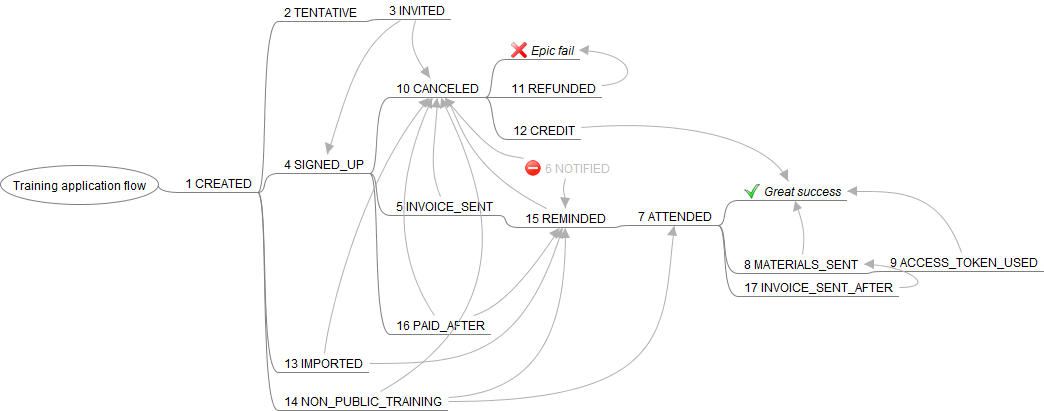
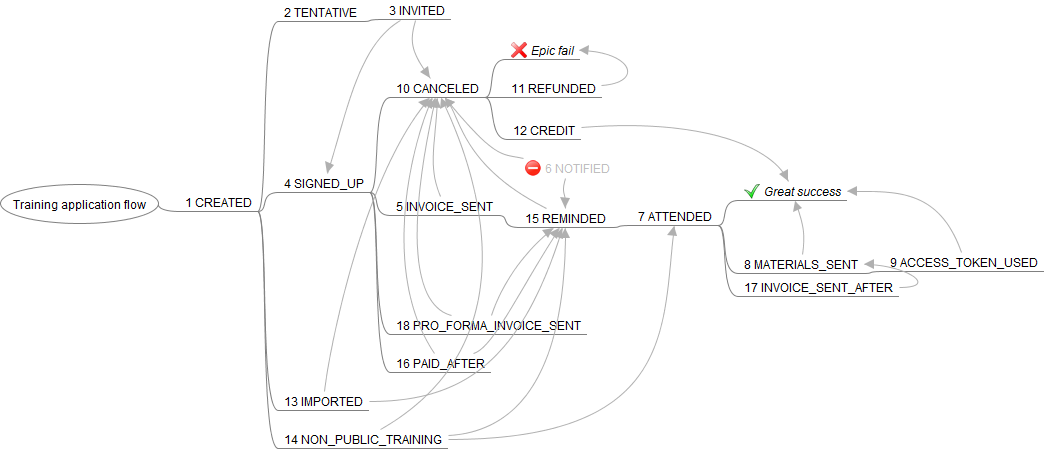
Now it's possible to send pro forma invoice too, manually only

diff --git a/docs/training_application_flow.mm b/docs/training_application_flow.mm
@@ -11,14 +11,15 @@
 </node>
 <node CREATED="1355610796532" ID="ID_1756582487" MODIFIED="1355617410792" TEXT="4 SIGNED_UP" VGAP="18">
 <linktarget COLOR="#b0b0b0" DESTINATION="ID_1756582487" ENDARROW="Default" ENDINCLINATION="19;-59;" ID="Arrow_ID_1716710395" SOURCE="ID_1511763687" STARTARROW="None" STARTINCLINATION="-43;25;"/>
-<node CREATED="1355610850487" ID="ID_1175474475" MODIFIED="1466902179453" TEXT="10 CANCELED" VGAP="18">
+<node CREATED="1355610850487" ID="ID_1175474475" MODIFIED="1488987652168" TEXT="10 CANCELED" VGAP="18">
 <linktarget COLOR="#b0b0b0" DESTINATION="ID_1175474475" ENDARROW="Default" ENDINCLINATION="-20;-27;" ID="Arrow_ID_1203943816" SOURCE="ID_1511763687" STARTARROW="None" STARTINCLINATION="-6;21;"/>
 <linktarget COLOR="#b0b0b0" DESTINATION="ID_1175474475" ENDARROW="Default" ENDINCLINATION="-2;47;" ID="Arrow_ID_1408376146" SOURCE="ID_1032920025" STARTARROW="None" STARTINCLINATION="-13;-31;"/>
+<linktarget COLOR="#b0b0b0" DESTINATION="ID_1175474475" ENDARROW="Default" ENDINCLINATION="51;62;" ID="Arrow_ID_1310256158" SOURCE="ID_1075044975" STARTARROW="None" STARTINCLINATION="-22;-5;"/>
+<linktarget COLOR="#b0b0b0" DESTINATION="ID_1175474475" ENDARROW="Default" ENDINCLINATION="16;18;" ID="Arrow_ID_258465881" SOURCE="ID_613030399" STARTARROW="None" STARTINCLINATION="-87;-44;"/>
 <linktarget COLOR="#b0b0b0" DESTINATION="ID_1175474475" ENDARROW="Default" ENDINCLINATION="-18;36;" ID="Arrow_ID_1282435526" SOURCE="ID_907559329" STARTARROW="None" STARTINCLINATION="-57;-84;"/>
 <linktarget COLOR="#b0b0b0" DESTINATION="ID_1175474475" ENDARROW="Default" ENDINCLINATION="-67;77;" ID="Arrow_ID_575919759" SOURCE="ID_841067494" STARTARROW="None" STARTINCLINATION="4;-38;"/>
 <linktarget COLOR="#b0b0b0" DESTINATION="ID_1175474475" ENDARROW="Default" ENDINCLINATION="37;76;" ID="Arrow_ID_359661777" SOURCE="ID_894633253" STARTARROW="None" STARTINCLINATION="153;-87;"/>
-<linktarget COLOR="#b0b0b0" DESTINATION="ID_1175474475" ENDARROW="Default" ENDINCLINATION="51;62;" ID="Arrow_ID_1310256158" SOURCE="ID_1075044975" STARTARROW="None" STARTINCLINATION="-22;-5;"/>
-<linktarget COLOR="#b0b0b0" DESTINATION="ID_1175474475" ENDARROW="Default" ENDINCLINATION="16;18;" ID="Arrow_ID_258465881" SOURCE="ID_613030399" STARTARROW="None" STARTINCLINATION="-87;-44;"/>
+<linktarget COLOR="#b0b0b0" DESTINATION="ID_1175474475" ENDARROW="Default" ENDINCLINATION="-5;25;" ID="Arrow_ID_374049343" SOURCE="ID_1470907850" STARTARROW="None" STARTINCLINATION="-63;-17;"/>
 <node CREATED="1355612401716" ID="ID_438026523" MODIFIED="1355617431736" TEXT="Epic fail">
 <linktarget COLOR="#b0b0b0" DESTINATION="ID_438026523" ENDARROW="Default" ENDINCLINATION="53;1;" ID="Arrow_ID_1067521810" SOURCE="ID_1457836313" STARTARROW="None" STARTINCLINATION="43;-3;"/>
 <font ITALIC="true" NAME="SansSerif" SIZE="12"/>
@@ -39,12 +40,13 @@
 <arrowlink DESTINATION="ID_613030399" ENDARROW="Default" ENDINCLINATION="1;-17;" ID="Arrow_ID_1391355262" STARTARROW="None" STARTINCLINATION="-5;17;"/>
 <icon BUILTIN="closed"/>
 </node>
-<node CREATED="1415815238185" ID="ID_613030399" MODIFIED="1466902106428" TEXT="15 REMINDED">
+<node CREATED="1415815238185" ID="ID_613030399" MODIFIED="1488987733841" TEXT="15 REMINDED">
 <arrowlink DESTINATION="ID_1175474475" ENDARROW="Default" ENDINCLINATION="16;18;" ID="Arrow_ID_258465881" STARTARROW="None" STARTINCLINATION="-87;-44;"/>
+<linktarget COLOR="#b0b0b0" DESTINATION="ID_613030399" ENDARROW="Default" ENDINCLINATION="1;-17;" ID="Arrow_ID_1391355262" SOURCE="ID_1075044975" STARTARROW="None" STARTINCLINATION="-5;17;"/>
+<linktarget COLOR="#b0b0b0" DESTINATION="ID_613030399" ENDARROW="Default" ENDINCLINATION="-41;63;" ID="Arrow_ID_766532629" SOURCE="ID_907559329" STARTARROW="None" STARTINCLINATION="20;-6;"/>
 <linktarget COLOR="#b0b0b0" DESTINATION="ID_613030399" ENDARROW="Default" ENDINCLINATION="-41;131;" ID="Arrow_ID_853160798" SOURCE="ID_841067494" STARTARROW="None" STARTINCLINATION="96;0;"/>
 <linktarget COLOR="#b0b0b0" DESTINATION="ID_613030399" ENDARROW="Default" ENDINCLINATION="0;82;" ID="Arrow_ID_96225950" SOURCE="ID_894633253" STARTARROW="None" STARTINCLINATION="103;-6;"/>
-<linktarget COLOR="#b0b0b0" DESTINATION="ID_613030399" ENDARROW="Default" ENDINCLINATION="-41;63;" ID="Arrow_ID_766532629" SOURCE="ID_907559329" STARTARROW="None" STARTINCLINATION="20;-6;"/>
-<linktarget COLOR="#b0b0b0" DESTINATION="ID_613030399" ENDARROW="Default" ENDINCLINATION="1;-17;" ID="Arrow_ID_1391355262" SOURCE="ID_1075044975" STARTARROW="None" STARTINCLINATION="-5;17;"/>
+<linktarget COLOR="#b0b0b0" DESTINATION="ID_613030399" ENDARROW="Default" ENDINCLINATION="-36;28;" ID="Arrow_ID_1506933628" SOURCE="ID_1470907850" STARTARROW="None" STARTINCLINATION="7;-22;"/>
 <node CREATED="1355610836241" ID="ID_1743884845" MODIFIED="1456301820197" TEXT="7 ATTENDED">
 <linktarget COLOR="#b0b0b0" DESTINATION="ID_1743884845" ENDARROW="Default" ENDINCLINATION="-13;95;" ID="Arrow_ID_788685321" SOURCE="ID_894633253" STARTARROW="None" STARTINCLINATION="232;0;"/>
 <node CREATED="1355611320041" ID="ID_869199593" MODIFIED="1355617435824" TEXT="Great success">
@@ -67,7 +69,11 @@
 </node>
 </node>
 </node>
-<node CREATED="1456301769153" ID="ID_907559329" MODIFIED="1466900969369" TEXT="16 PAID_AFTER">
+<node CREATED="1488987584548" ID="ID_1470907850" MODIFIED="1488987733841" TEXT="18 PRO_FORMA_INVOICE_SENT">
+<arrowlink DESTINATION="ID_1175474475" ENDARROW="Default" ENDINCLINATION="-5;25;" ID="Arrow_ID_374049343" STARTARROW="None" STARTINCLINATION="-63;-17;"/>
+<arrowlink DESTINATION="ID_613030399" ENDARROW="Default" ENDINCLINATION="-36;28;" ID="Arrow_ID_1506933628" STARTARROW="None" STARTINCLINATION="7;-22;"/>
+</node>
+<node CREATED="1456301769153" ID="ID_907559329" MODIFIED="1488987729160" TEXT="16 PAID_AFTER">
 <arrowlink DESTINATION="ID_1175474475" ENDARROW="Default" ENDINCLINATION="-18;36;" ID="Arrow_ID_1282435526" STARTARROW="None" STARTINCLINATION="-57;-84;"/>
 <arrowlink DESTINATION="ID_613030399" ENDARROW="Default" ENDINCLINATION="-41;63;" ID="Arrow_ID_766532629" STARTARROW="None" STARTINCLINATION="20;-6;"/>
 </node>

diff --git a/site/app/models/Training/Mails.php b/site/app/models/Training/Mails.php
@@ -106,7 +106,7 @@ class Mails
 
 		foreach ($this->trainingStatuses->getParentStatuses(Statuses::STATUS_MATERIALS_SENT) as $status) {
 			foreach ($this->trainingApplications->getByStatus($status) as $application) {
-				if ($status !== Statuses::STATUS_ATTENDED || ($status === Statuses::STATUS_ATTENDED && !$this->trainingStatuses->historyContainsStatus(Statuses::STATUS_PAID_AFTER, $application->id))) {
+				if ($status !== Statuses::STATUS_ATTENDED || ($status === Statuses::STATUS_ATTENDED && !$this->trainingStatuses->historyContainsStatuses([Statuses::STATUS_PAID_AFTER, Statuses::STATUS_PRO_FORMA_INVOICE_SENT], $application->id))) {
 					$application->files = $this->trainingFiles->getFiles($application->id);
 					$application->nextStatus = Statuses::STATUS_MATERIALS_SENT;
 					$applications[$application->id] = $application;
@@ -123,7 +123,7 @@ class Mails
 
 		foreach ($this->trainingStatuses->getParentStatuses(Statuses::STATUS_INVOICE_SENT_AFTER) as $status) {
 			foreach ($this->trainingApplications->getByStatus($status) as $application) {
-				if ($status !== Statuses::STATUS_ATTENDED || ($status === Statuses::STATUS_ATTENDED && $this->trainingStatuses->historyContainsStatus(Statuses::STATUS_PAID_AFTER, $application->id))) {
+				if ($status !== Statuses::STATUS_ATTENDED || ($status === Statuses::STATUS_ATTENDED && $this->trainingStatuses->historyContainsStatuses([Statuses::STATUS_PAID_AFTER, Statuses::STATUS_PRO_FORMA_INVOICE_SENT], $application->id))) {
 					$application->nextStatus = Statuses::STATUS_INVOICE_SENT_AFTER;
 					$applications[$application->id] = $application;
 				}

diff --git a/site/app/models/Training/Statuses.php b/site/app/models/Training/Statuses.php
@@ -25,6 +25,7 @@ class Statuses
 	const STATUS_REMINDED            = 'REMINDED';             // 15
 	const STATUS_PAID_AFTER          = 'PAID_AFTER';           // 16
 	const STATUS_INVOICE_SENT_AFTER  = 'INVOICE_SENT_AFTER';   // 17
+	const STATUS_PRO_FORMA_INVOICE_SENT = 'PRO_FORMA_INVOICE_SENT'; // 18
 
 	/** @var \Nette\Database\Context */
 	protected $database;
@@ -119,7 +120,7 @@ class Statuses
 	{
 		$children = $this->getChildrenStatuses($parent);
 		if ($parent === self::STATUS_ATTENDED) {
-			$status = ($this->historyContainsStatus(self::STATUS_PAID_AFTER, $applicationId) ? self::STATUS_MATERIALS_SENT : self::STATUS_INVOICE_SENT_AFTER);
+			$status = ($this->historyContainsStatuses([self::STATUS_PAID_AFTER, self::STATUS_PRO_FORMA_INVOICE_SENT], $applicationId) ? self::STATUS_MATERIALS_SENT : self::STATUS_INVOICE_SENT_AFTER);
 			unset($children[$this->getStatusId($status)]);
 		}
 		return $children;
@@ -249,11 +250,11 @@ class Statuses
 	}
 
 
-	public function historyContainsStatus($status, $applicationId)
+	public function historyContainsStatuses(array $statuses, $applicationId)
 	{
 		$result = false;
 		foreach ($this->getStatusHistory($applicationId) as $history) {
-			if ($history->status === $status) {
+			if (in_array($history->status, $statuses)) {
 				$result = true;
 				break;
 			}
